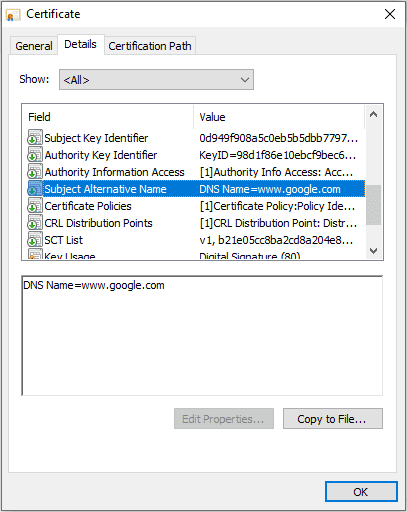
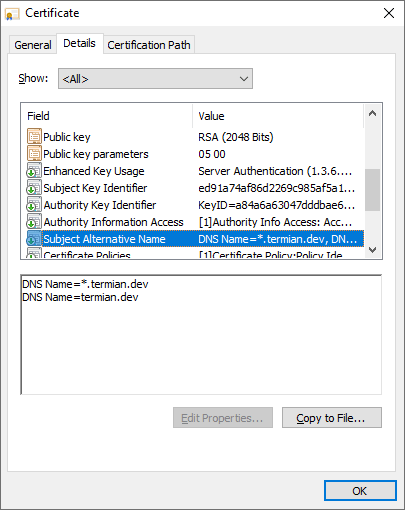
Update article images

Changed region(s): [[0.0, 0.0, 1.0, 1.0], [0.6519, 0.7941, 0.9481, 0.8529], [0.4444, 0.7941, 0.6222, 0.8529]]

diff --git a/content/posts/collections/pl/2020-06-14-java-secure-connection.md b/content/posts/collections/pl/2020-06-14-java-secure-connection.md
@@ -228,7 +228,7 @@ tmf.init((KeyStore) null); // Default keystore will be used</code>
          <td data-label="Przykład użycia">
             Trzy popularne implementacje można znaleźć w bibliotece Apache HttpComponents:
             <ul>
-            <li><code>org.apache.http.conn.ssl.DefaultHostnameVerifier</code> – weryfikuje nazwę hosta (IPv4/IPv6/DNS) na podstawie RFC 2818 w sposób rygorystyczny (tylko pojedynczy wildcard w nazwie domeny jest dozwolony) poprzez porównanie docelowej nazwy hosta i wartości DNS Name z certyfikatu z pola Subject Alternative Name;</li><li>
+            <li><code>org.apache.http.conn.ssl.DefaultHostnameVerifier</code> – weryfikuje nazwę hosta (IPv4/IPv6/DNS) na podstawie RFC 2818 w sposób rygorystyczny (tylko pojedynczy wildcard w nazwie domeny jest dozwolony) poprzez porównanie docelowej nazwy hosta i wartości DNS Name z certyfikatu z pola Subject Alternative Name (subjectAltName);</li><li>
             <code>org.apache.http.conn.ssl.BrowserCompatHostnameVerifier</code> – podobnie do DefaultHostnameVerifier, ale bez obostrzeń związanych z wildcardem, oznaczony jako przestarzały;</li><li>
             <code>org.apache.http.conn.ssl.NoopHostnameVerifier</code> – podczas weryfikacji zwraca true, tj. weryfikacja nie jest przeprowadzana – nie należy używać tej implementacji, chyba że zawęzimy zakres dopuszczalnych certyfikatów do tego, który przedstawia serwer (<a href="https://tools.ietf.org/search/rfc6125">RFC 6125</a>).</li>
             </ul>
@@ -272,9 +272,9 @@ Na potrzeby zarządzania keystore'ami, tworzenia CSR (Certificate Signing Reques
 W razie wątpliwości, dlaczego standardowa konfiguracja nie działa, zawsze warto sprawdzić ważność certyfikatu witryny, z którą się łączymy, nazwę domeny i łańcuch poświadczeń. No chyba że certyfikat jest self-signed i zaimportowaliśmy go do trust store'a (również to powinniśmy sprawdzić).
 
 <figure style="text-align: center;">
-<img loading="lazy" style="margin-top: 0;" src="/img/hq/https-certificate-browser.png" alt="Wyświetlenie certyfikatu witryny za pomocą przeglądarki" title="Wyświetlenie certyfikatu witryny za pomocą przeglądarki">
+<img loading="lazy" style="margin-top: 0;" src="/img/hq/https-certificate-browser.png" alt="Wyświetlenie certyfikatu witryny za pomocą przeglądarki (ikona kłódki)" title="Wyświetlenie certyfikatu witryny za pomocą przeglądarki (ikona kłódki)">
 <img loading="lazy" style="display: inline; margin-bottom: 0;" src="/img/hq/https-certificate-windows.png" alt="Weryfikacja nazwy DNS certyfikatu" title="Weryfikacja nazwy DNS certyfikatu">
-<img loading="lazy" style="display: inline; margin-bottom: 0;" src="/img/hq/https-certificate-windows.png" alt="Sprawdzanie ścieżki certyfikacji" title="Sprawdzanie ścieżki certyfikacji">
+<img loading="lazy" style="display: inline; margin-bottom: 0;" src="/img/hq/https-certificate-certification-path.png" alt="Sprawdzanie ścieżki certyfikacji" title="Sprawdzanie ścieżki certyfikacji">
 </figure>
 
 Często jednak sprawdzanie certyfikatu na serwerach za pomocą przeglądarki nie jest wykonalnym scenariuszem, gdyż zazwyczaj nie udostępniają one powłoki graficznej. W takim przypadku możemy skorzystać z narzędzi wiersza polecenia, takich jak [curl lub openssl, w celu wyodrębnienia certyfikatu](https://serverfault.com/questions/661978/displaying-a-remote-ssl-certificate-details-using-cli-tools).

diff --git a/content/posts/collections/en/2020-06-14-java-secure-connection.md b/content/posts/collections/en/2020-06-14-java-secure-connection.md
@@ -228,7 +228,7 @@ tmf.init((KeyStore) null); // Default keystore will be used</code>
          <td data-label="Example use">
             Three popular implementations can be found in Apache HttpComponents library:
             <ul>
-            <li><code>org.apache.http.conn.ssl.DefaultHostnameVerifier</code> – verifies hostname (IPv4/IPv6/DNS name) based on RFC 2818 in a strict manner (only singular wildcard in the domain is legal) by comparing the target hostname and the certificate DNS Name values in the Subject Alternative Name field;</li><li>
+            <li><code>org.apache.http.conn.ssl.DefaultHostnameVerifier</code> – verifies hostname (IPv4/IPv6/DNS name) based on RFC 2818 in a strict manner (only singular wildcard in the domain is legal) by comparing the target hostname and the certificate DNS Name values in the Subject Alternative Name (subjectAltName) field;</li><li>
             <code>org.apache.http.conn.ssl.BrowserCompatHostnameVerifier</code> – similar to DefaultHostnameVerifier but without the strict requirement, deprecated;</li><li>
             <code>org.apache.http.conn.ssl.NoopHostnameVerifier</code> – always returns true i.e. no verification is done – this should not be used, unless we narrow the scope of acceptable certificates to the one that the peer will present (<a href="https://tools.ietf.org/search/rfc6125">RFC 6125</a>).</li>
             </ul>
@@ -272,9 +272,9 @@ To manage key stores, create CSR (Certificate Signing Request – to be signed b
 When in doubt why the standard configuration does not work, it's always a good idea to check the validity of the site certificate, domain name, and trust chain unless the certificate is self-signed and imported into the trust store (if so, verify this too).
 
 <figure style="text-align: center;">
-<img loading="lazy" style="margin-top: 0;" src="/img/hq/https-certificate-browser.png" alt="Getting the site certificate using browser" title="Getting the site certificate using browser">
+<img loading="lazy" style="margin-top: 0;" src="/img/hq/https-certificate-browser.png" alt="Getting the site certificate using browser (lock symbol)" title="Getting the site certificate using browser (lock symbol)">
 <img loading="lazy" style="display: inline; margin-bottom: 0;" src="/img/hq/https-certificate-windows.png" alt="Verification of certificate DNS name" title="Verification of certificate DNS name">
-<img loading="lazy" style="display: inline; margin-bottom: 0;" src="/img/hq/https-certificate-windows.png" alt="Checking the certification path" title="Checking the certification path">
+<img loading="lazy" style="display: inline; margin-bottom: 0;" src="/img/hq/https-certificate-certification-path.png" alt="Checking the certification path" title="Checking the certification path">
 </figure>
 
 Often though, on the servers, checking the certificate through the browser isn't a feasible scenario as they're usually run in a headless mode. You can still use some command-line tools like [curl or openssl to extract the certificate](https://serverfault.com/questions/661978/displaying-a-remote-ssl-certificate-details-using-cli-tools) in such a situation.
